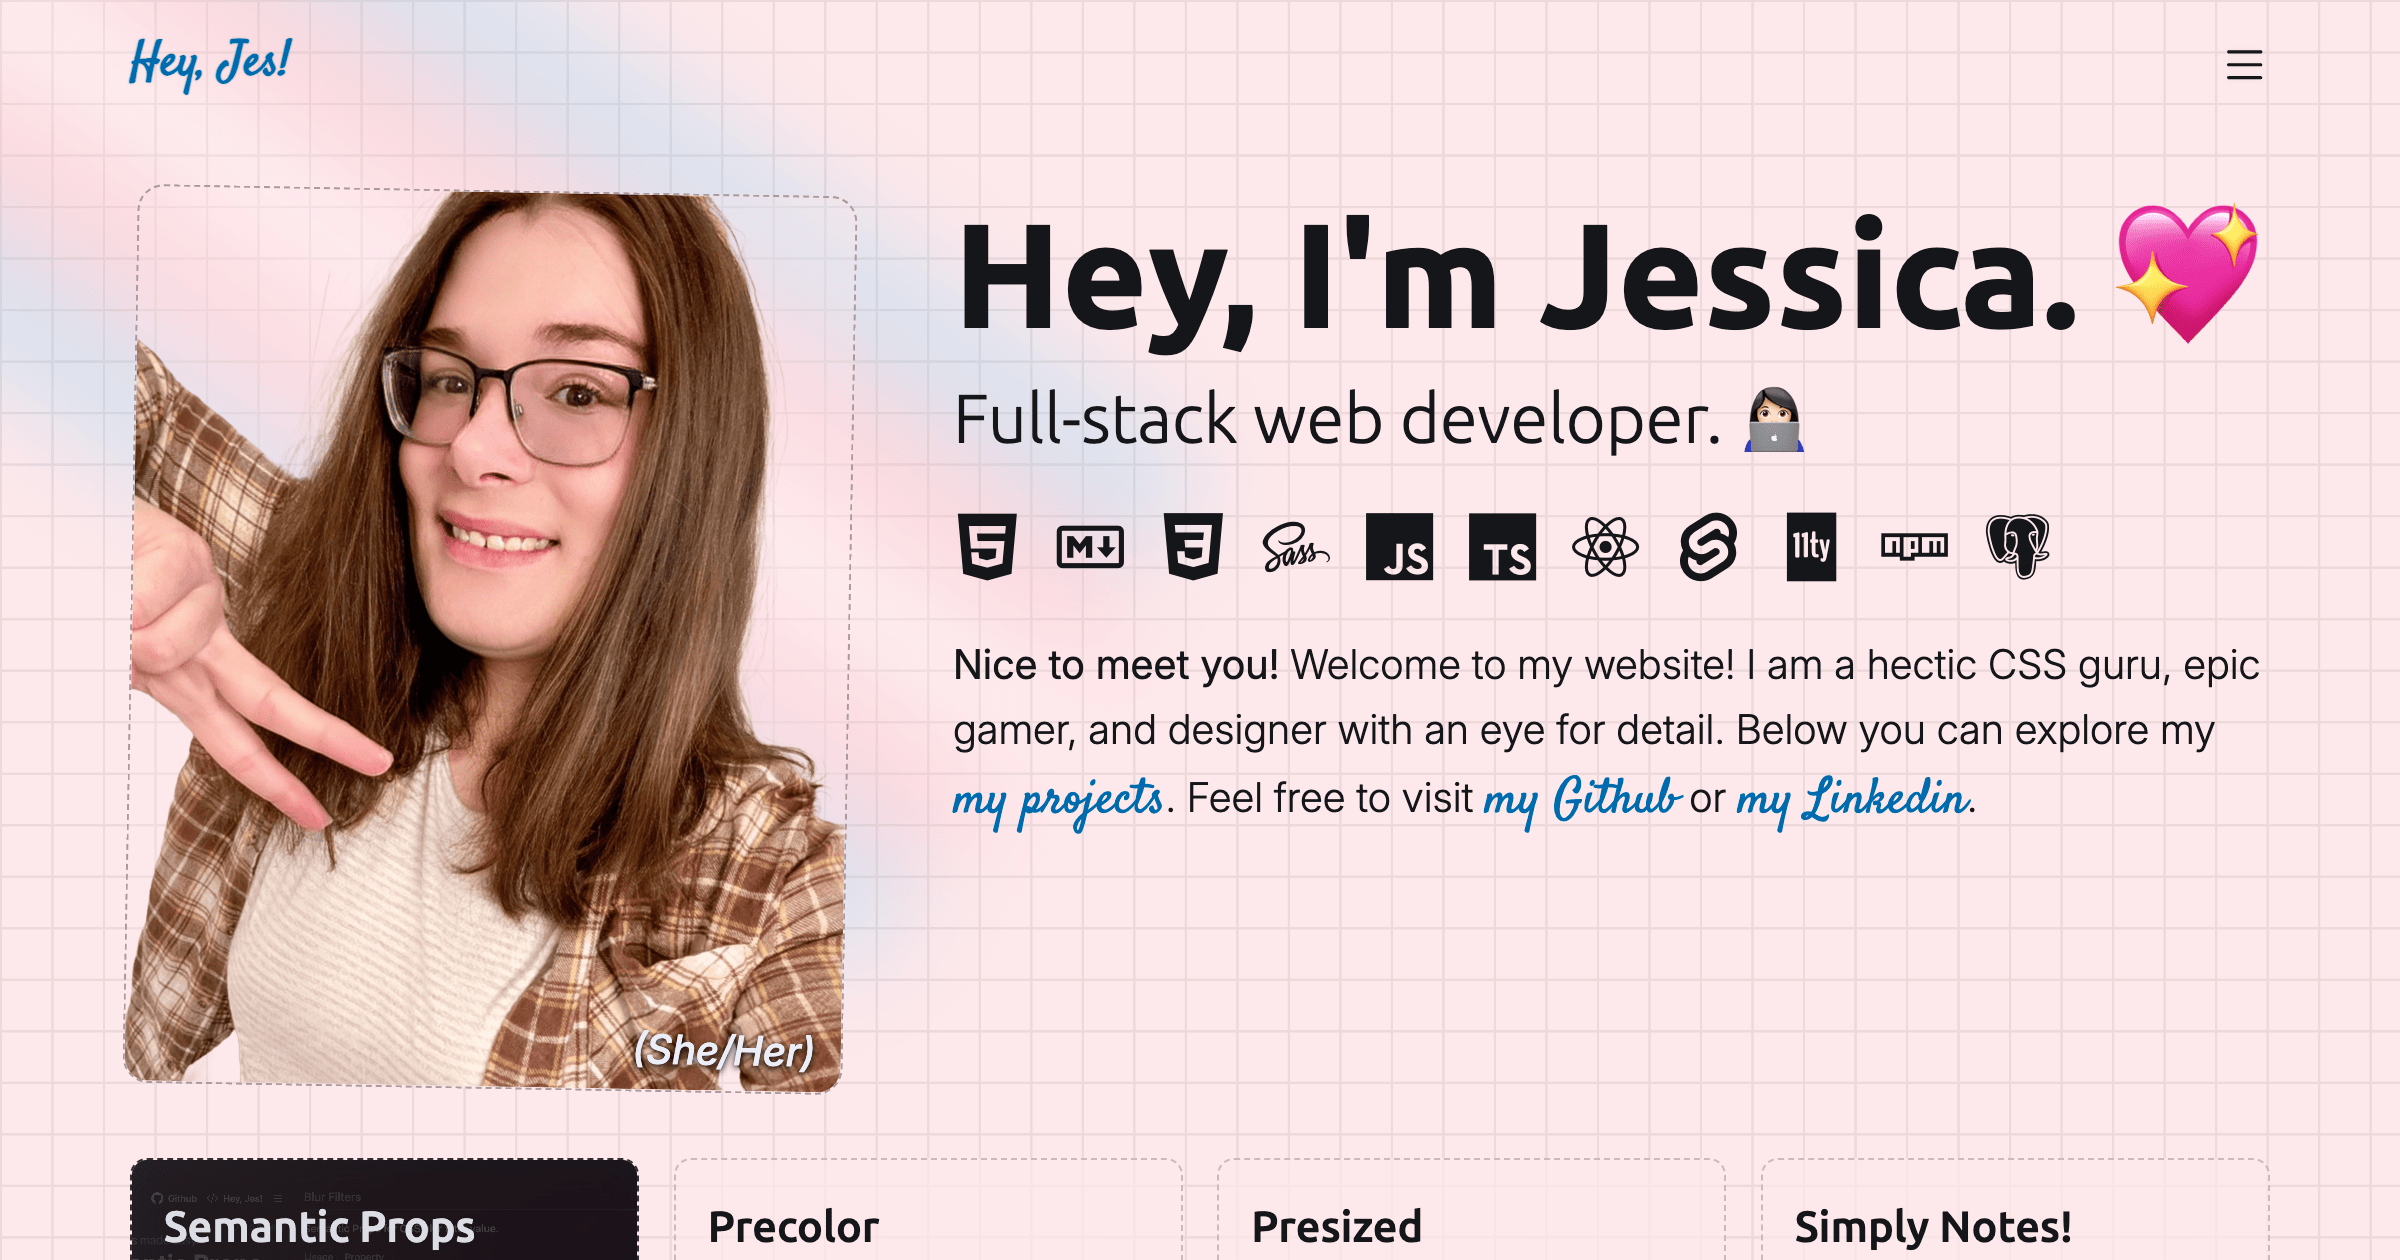
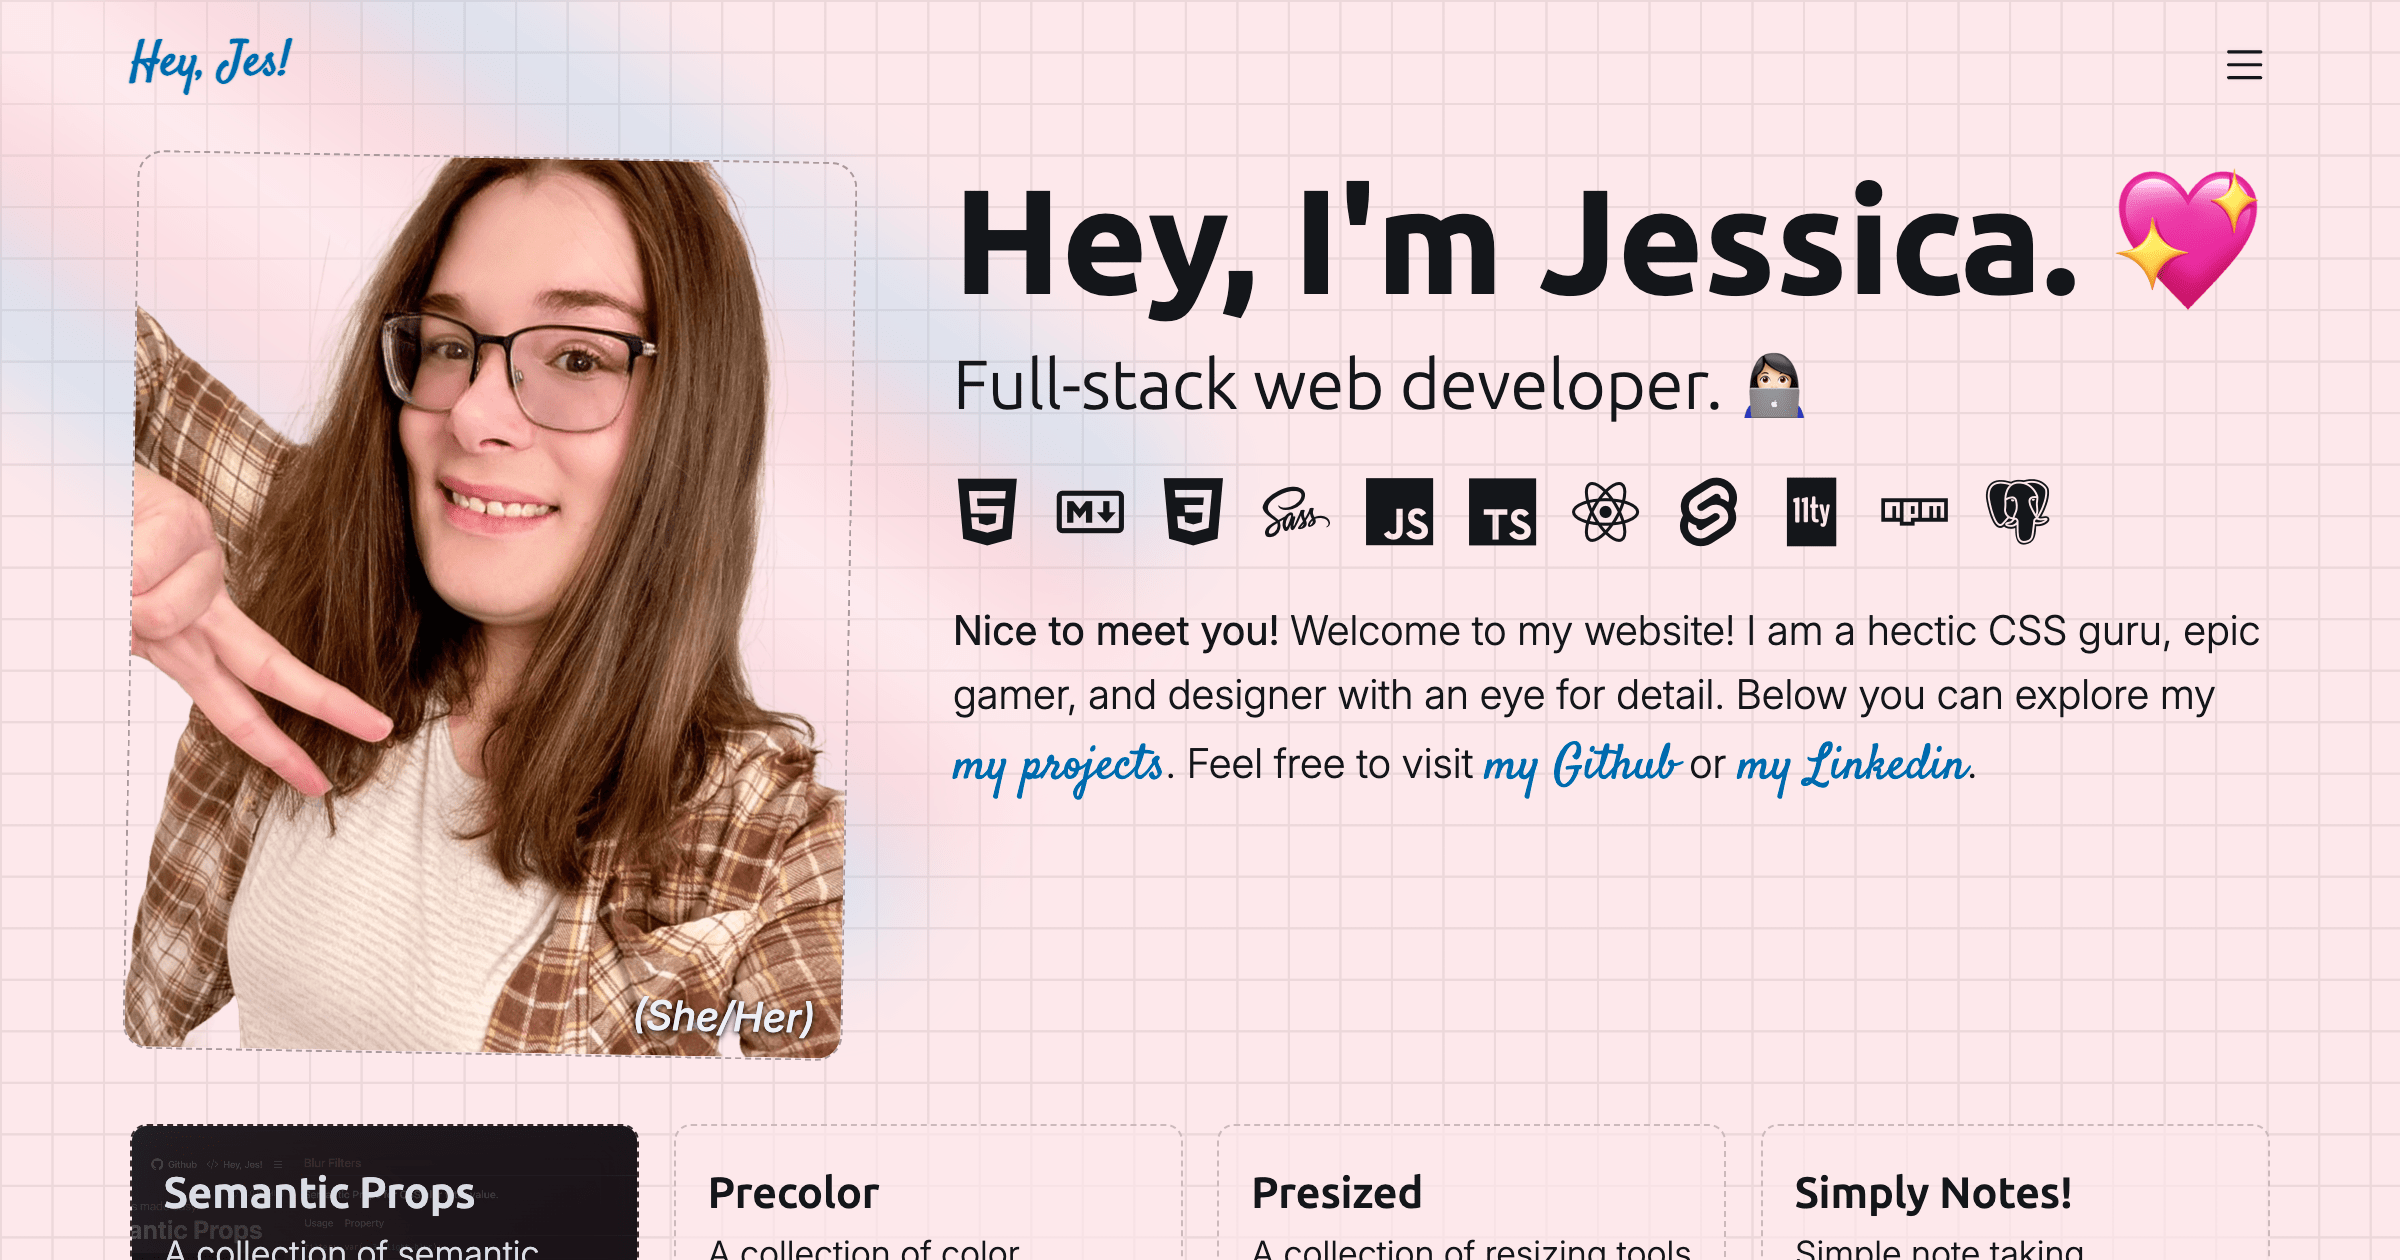
Reduced intro top margin.

diff --git a/src/pages/Homepage.module.css b/src/pages/Homepage.module.css
@@ -2,7 +2,7 @@
 
 .container, .intro {
 	display: block;
-	margin-block: var(--medium-size);
+	margin-block: var(--2x-small-size) var(--medium-size);
 }
 
 .profile {
